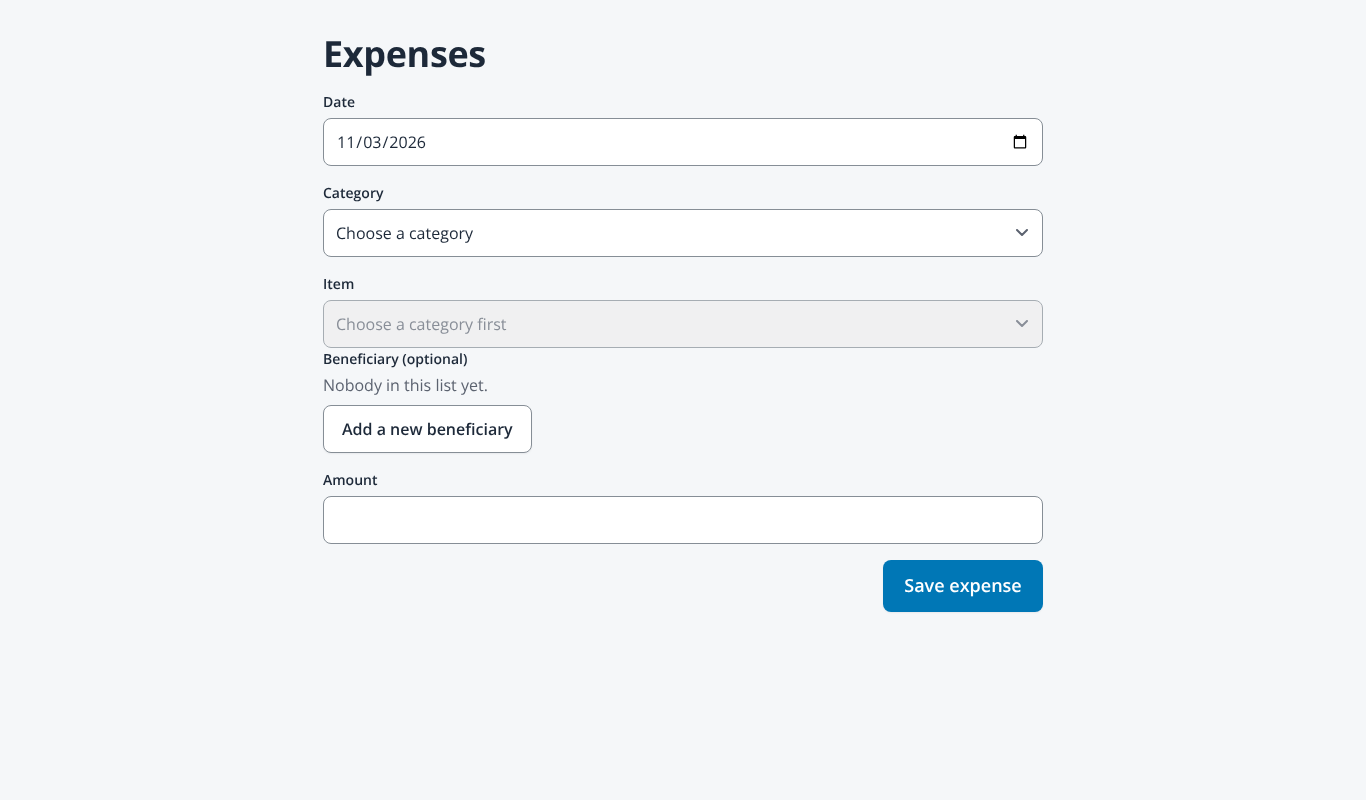
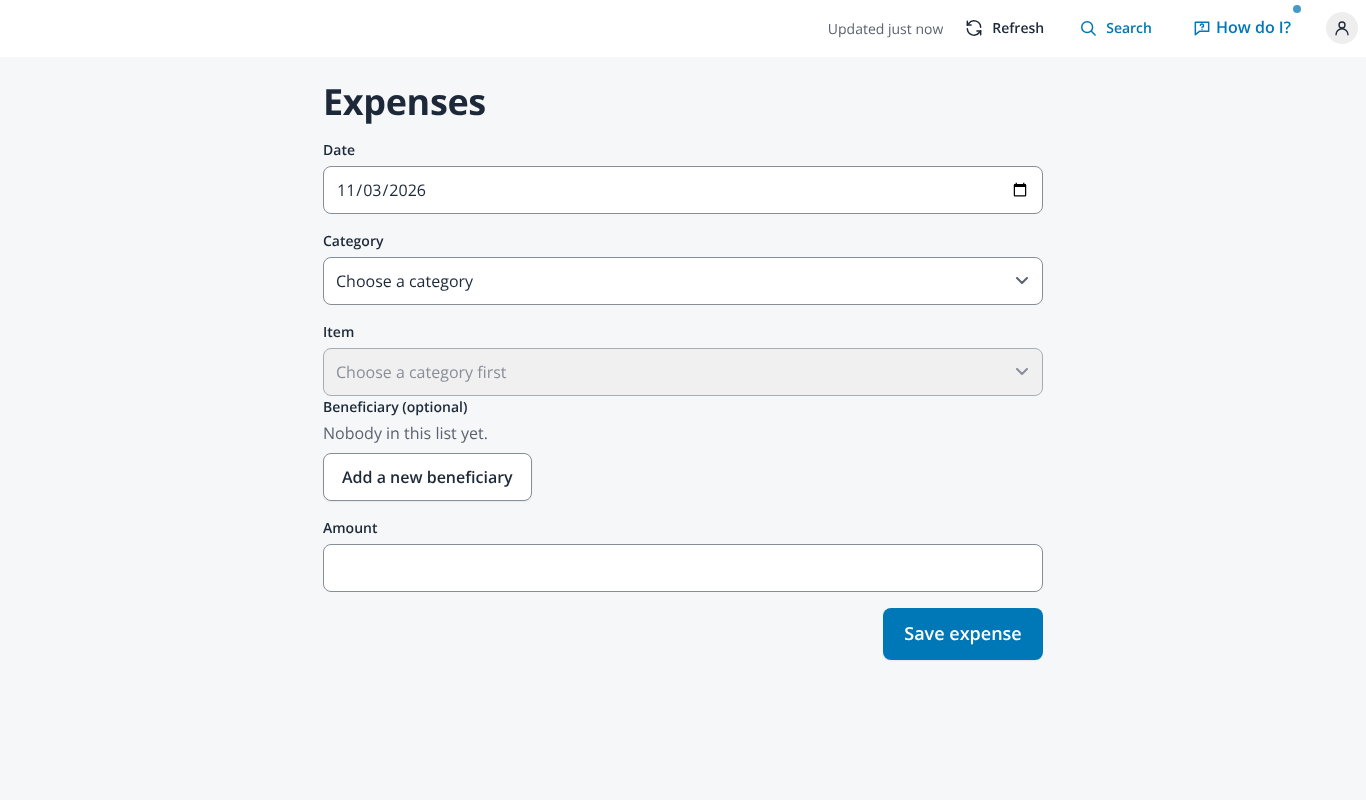
Lead decisions on the button sizes review (#825)
The staff top bar keeps 8px between its targets at every phone width:
below 412px it takes two lines in the order of the page, the menu and
the names over the icon buttons, so the names keep the #605 minimum.
Barcode labels puts its main action last, so it stands at the far
right on a laptop with the page order kept; on a phone the bar's
buttons are each full width, 8px apart. The layout fixture adds the
staff top bar and an open sheet; the suite measures them, checks that
a bar and a sheet show their buttons in page order on both sizes, and
the header suite checks 8px and page order between the bar's targets.
The before pictures are taken again with the same fixture.

diff --git a/frontend/layout/buttons.layout.test.ts b/frontend/layout/buttons.layout.test.ts
@@ -42,6 +42,7 @@ const SCREENS: { screen: string; ready: string; main?: string; secondary?: strin
   { screen: 'savings', ready: '.action-bar .rt-primary', main: '.action-bar .rt-primary' },
   { screen: 'setup', ready: 'main fieldset label', main: '.action-bar .rt-primary' },
   { screen: 'labels', ready: '.action-bar .rt-primary', main: '.action-bar .rt-primary' },
+  { screen: 'sheet', ready: '.sheet-actions button' },
 ];
 
 type Target = { name: string; x: number; y: number; width: number; height: number; group: number; pinned: boolean };
@@ -56,7 +57,8 @@ async function open(screen: string, ready: string, size: { width: number; height
 }
 
 /**
- * Every target of the screen a person can tap: its buttons, links drawn as buttons, rows, choice rows and the bottom tabs.
+ * Every target of the screen a person can tap: the staff top bar, the page's buttons, links drawn as buttons, rows and choice
+ * rows, an open sheet, and the bottom tabs (what a sheet hides from a screen reader is left out, as it cannot be tapped).
  * `group` numbers the one control a target is a part of (a Segmented, a Stepper, the rows of one list, the tabs), whose parts
  * touch by design, and is -1 for a target of its own. `pinned` marks a target in a stuck or fixed bar: it is measured where it is
  * drawn on the screen, the others where they are on the page.
@@ -68,7 +70,7 @@ async function targets(page: Page): Promise<Target[]> {
       for (let box: Element | null = el; box; box = box.parentElement) if (/^(sticky|fixed)$/.test(getComputedStyle(box).position)) return true;
       return false;
     };
-    return [...document.querySelectorAll<HTMLElement>('main :is(button, a.btn, a.list-row, [role="button"], label:has(> input[type="radio"], > input[type="checkbox"])), .tab-bar :is(a, button)')]
+    return [...document.querySelectorAll<HTMLElement>(':is(main, .staff-bar, .sheet-panel) :is(button, a.btn, a.list-row, [role="button"], label:has(> input[type="radio"], > input[type="checkbox"])), .tab-bar :is(a, button)')]
       .filter((el) => {
         const r = el.getBoundingClientRect();
         return r.width > 0 && r.height > 0 && !el.closest('details:not([open]) > :not(summary), [aria-hidden="true"], .visually-hidden');
@@ -115,6 +117,18 @@ describe.each(SCREENS)('the buttons of $screen (#825)', ({ screen, ready, main, 
       }),
     );
     expect(inset.filter((d) => d < GAP - 0.5)).toEqual([]);
+    // What is seen matches the Tab order: the buttons of an ActionBar or a sheet stand one under the other in the order of the
+    // page, each the full width of the bar.
+    const stacks = await page.locator('.action-bar, .sheet-actions').evaluateAll((all) => all.map((bar) => {
+      const cs = getComputedStyle(bar);
+      const inner = bar.getBoundingClientRect().width - parseFloat(cs.paddingLeft) - parseFloat(cs.paddingRight);
+      const boxes = [...bar.querySelectorAll(':scope > :is(button, a)')].map((c) => c.getBoundingClientRect());
+      return { inner, tops: boxes.map((b) => b.top), widths: boxes.map((b) => b.width) };
+    }));
+    for (const s of stacks) {
+      expect(s.tops).toEqual([...s.tops].sort((a, b) => a - b));
+      expect(s.widths.filter((w) => w < s.inner - 1)).toEqual([]);
+    }
     if (main) {
       const action = page.locator(main).first();
       const box = await action.boundingBox();
@@ -155,9 +169,7 @@ describe.each(SCREENS)('the buttons of $screen (#825)', ({ screen, ready, main, 
         const form = el.closest<HTMLElement>('form, .action-bar')?.parentElement?.closest<HTMLElement>('form') ?? el.closest<HTMLElement>('form') ?? (el.closest('main') as HTMLElement);
         const box = form.getBoundingClientRect();
         const r = el.getBoundingClientRect();
-        // In a bar of more than one button the main action leads the group, which stands at the right (checked below).
-        const last = !el.parentElement?.matches('.action-bar') || el.parentElement.querySelector(':scope > :is(button, a):last-of-type') === el;
-        return { width: r.width, height: r.height, right: last ? r.right : box.right - parseFloat(getComputedStyle(form).paddingRight), formRight: box.right - parseFloat(getComputedStyle(form).paddingRight), scroll: el.scrollWidth - el.clientWidth };
+        return { width: r.width, height: r.height, right: r.right, formRight: box.right - parseFloat(getComputedStyle(form).paddingRight), scroll: el.scrollWidth - el.clientWidth };
       });
       expect(placed.width).toBeGreaterThanOrEqual(MIN_WIDE - 0.5);
       expect(placed.width).toBeLessThanOrEqual(MAX + 0.5);
@@ -174,10 +186,10 @@ describe.each(SCREENS)('the buttons of $screen (#825)', ({ screen, ready, main, 
       expect(under.width).toBeLessThanOrEqual(MAX + 0.5);
       expect(Math.abs(under.formRight - under.right), 'the secondary action stands under the main one, at the right').toBeLessThanOrEqual(1);
     }
-    // What is seen matches the Tab order: the controls of a bar run left to right in the order of the page, side by side, the
-    // last at the bar's right.
-    const bars = await page.locator('.action-bar').evaluateAll((all) => all.map((bar) => ({
-      right: bar.getBoundingClientRect().right,
+    // What is seen matches the Tab order: the buttons of an ActionBar or a sheet run left to right in the order of the page, side
+    // by side, the last at the right of the bar.
+    const bars = await page.locator('.action-bar, .sheet-actions').evaluateAll((all) => all.map((bar) => ({
+      right: bar.getBoundingClientRect().right - parseFloat(getComputedStyle(bar).paddingRight),
       boxes: [...bar.querySelectorAll(':scope > :is(button, a)')].map((c) => ({ left: c.getBoundingClientRect().left, right: c.getBoundingClientRect().right })),
     })));
     for (const bar of bars) {

diff --git a/frontend/layout/buttons.tsx b/frontend/layout/buttons.tsx
@@ -14,14 +14,17 @@ import { SavingsForm } from '../src/areas/staff/retail/savings';
 import { ShopSetupPage } from '../src/areas/staff/retail/shop-setup';
 import { StockTable } from '../src/areas/staff/retail/stock';
 import { Gate } from '../src/areas/staff/retail/ui';
+import { StaffBar } from '../src/areas/staff/route';
 import { MoneyPage } from '../src/areas/staff/tab-pages';
+import { Sheet } from '../src/app/ui/Sheet';
+import { TourProvider } from '../src/tour/host';
 import { StaffTabBar } from '../src/areas/staff/tabs';
 import '../src/app/theme.css';
 import '../src/app/ui/index.css';
 import { layoutRouter } from './router';
 
 // The page buttons.layout.test.ts lays out in a real browser (issue #825): one daily screen of an owner, chosen by ?screen= (sell,
-// stock, buy, money, expenses, savings, setup, and labels for a bar of two buttons), inside the staff layout with the bottom tabs, under the app's own stylesheets, so
+// stock, buy, money, expenses, savings, setup, labels for a bar of two buttons, sheet for an open Sheet), under the staff top bar, the staff layout with the bottom tabs, under the app's own stylesheets, so
 // the test can measure every button on a phone and on a laptop. The lists are in the query cache, so nothing is fetched. Every
 // name and figure is invented.
 
@@ -57,8 +60,17 @@ const SCREENS: Record<string, { path: string; body: ReactNode }> = {
   expenses: { path: '/staff/retail/expenses', body: <Gate screen="expenses" title="Expenses"><ExpenseForm branchId={branch} /></Gate> },
   savings: { path: '/staff/retail/savings', body: <Gate screen="savings" title="Savings"><SavingsForm branchId={branch} /></Gate> },
   setup: { path: '/staff/retail/catalogue/set-up', body: <ShopSetupPage /> },
-  // Not a daily screen: the one ActionBar with two buttons, Make the labels and Print.
+  // Not a daily screen: the one ActionBar with two buttons, Print and Make the labels.
   labels: { path: '/staff/retail/catalogue/labels', body: <LabelsPage /> },
+  // A confirmation in the kit's Sheet, its primary button first as Sheet asks.
+  sheet: {
+    path: '/staff/retail/stock',
+    body: (
+      <Sheet open onClose={() => undefined} title="Remove this item?" actions={<><button type="button" className="btn-danger">Remove</button><button type="button">Keep it</button></>}>
+        <p>Test LED bulb 9W screw leaves this sale.</p>
+      </Sheet>
+    ),
+  },
 };
 const shown = SCREENS[screen] ?? (SCREENS.sell as { path: string; body: ReactNode });
 
@@ -66,12 +78,17 @@ createRoot(document.getElementById('root') as HTMLElement).render(
   <RouterContextProvider router={layoutRouter(shown.path)}>
     <QueryClientProvider client={client}>
       <StaffContext.Provider value={{ me, branch }}>
-        <div className="app-shell"><div className="app-content"><div className="nav-layout">
+        <TourProvider me={me} saveProgress={false}>
+        <div className="app-shell">
+          <StaffBar me={me} branch={branch} onBranch={() => undefined} onSignOut={() => undefined} />
+          <div className="app-content"><div className="nav-layout">
           <div className="nav-layout-main">
             <main data-screen={screen}>{shown.body}</main>
           </div>
           <StaffTabBar me={me} />
-        </div></div></div>
+          </div></div>
+        </div>
+        </TourProvider>
       </StaffContext.Provider>
     </QueryClientProvider>
   </RouterContextProvider>,

diff --git a/frontend/layout/header.layout.test.ts b/frontend/layout/header.layout.test.ts
@@ -137,17 +137,20 @@ describe.each([360, 390, 412])('the top bar at %ipx wide', (width) => {
         expect(c.box.x + c.box.width, `${c.cls} ends on screen`).toBeLessThanOrEqual(width + 0.5);
         for (const other of shown.slice(i + 1)) expect(overlap(c.box, other.box), `${c.cls} over ${other.cls}`).toBe(false);
       }
-      // Issue #825: from 412px two targets of the bar stand at least 8px apart. Below 412px they touch, so the names keep the
-      // minimum of #605 above (navigation.css).
+      // Issue #825: every two targets of the bar stand at least 8px apart, across and down (below 412px it takes two lines).
       const targets = await page.locator('.staff-bar-top :is(button, a.btn)').evaluateAll((els) =>
-        els.map((el) => ({ name: el.className, r: el.getBoundingClientRect() })).filter((t) => t.r.width > 0).map((t) => ({ name: t.name, x: t.r.x, right: t.r.right })),
+        els.map((el) => ({ name: el.className, r: el.getBoundingClientRect() })).filter((t) => t.r.width > 0).map((t) => ({ name: t.name, x: t.r.x, y: t.r.y, right: t.r.right, bottom: t.r.bottom })),
       );
-      targets.sort((a, b) => a.x - b.x);
-      for (const [i, t] of targets.slice(1).entries()) {
-        const before = targets[i] as { name: string; right: number };
-        if (width >= 412) expect(t.x - before.right, `${before.name} to ${t.name}`).toBeGreaterThanOrEqual(7.5);
-        else expect(t.x - before.right, `${before.name} over ${t.name}`).toBeGreaterThanOrEqual(-0.5);
+      expect(targets.length).toBeGreaterThanOrEqual(5);
+      for (const [i, a] of targets.entries()) {
+        for (const b of targets.slice(i + 1)) {
+          const gap = Math.max(b.x - a.right, a.x - b.right, b.y - a.bottom, a.y - b.bottom);
+          expect(gap, `${a.name} to ${b.name}`).toBeGreaterThanOrEqual(7.5);
+        }
       }
+      // What is seen matches the Tab order: line by line, left to right, in the order of the page.
+      const seen = [...targets].sort((a, b) => (Math.abs(a.y - b.y) > 4 ? a.y - b.y : a.x - b.x));
+      expect(seen.map((t) => t.name)).toEqual(targets.map((t) => t.name));
       for (const target of ['.menu-button', '.sync-button', '.find-open', '.refresh-button', '.ask-open', '.top-menu-button']) {
         const box = (await page.locator(`.staff-bar-top ${target}`).first().boundingBox()) as Box;
         expect(box.width, `${target} width`).toBeGreaterThanOrEqual(48);

diff --git a/frontend/src/areas/staff/retail/labels.tsx b/frontend/src/areas/staff/retail/labels.tsx
@@ -80,13 +80,14 @@ export function LabelsPage() {
         <input type="checkbox" style={{ width: 'auto', minHeight: 24, marginRight: 8 }} checked={safe} onChange={(e) => setSafe(e.target.checked)} />
         My printer cannot print to the edge: keep 4 mm clear inside each label
       </label>
+      {/* The main action last, so on a laptop it stands at the right of the bar with the page order kept (#825). */}
       <ActionBar>
-        <BusyButton type="button" className="rt-primary" data-tour="labels-make" busy={make.isPending} notReady={rows.length === 0} onClick={() => make.mutate()}>
-          Make the labels
-        </BusyButton>
         <button type="button" data-tour="labels-print" disabled={sheet.length === 0} onClick={() => window.print()}>
           Print
         </button>
+        <BusyButton type="button" className="rt-primary" data-tour="labels-make" busy={make.isPending} notReady={rows.length === 0} onClick={() => make.mutate()}>
+          Make the labels
+        </BusyButton>
       </ActionBar>
       {sheet.length > 0 && (
         <div className={safe ? 'label-sheet label-safe' : 'label-sheet'} data-testid="label-sheet" aria-label="Label sheet">

diff --git a/frontend/src/app/ui/navigation.css b/frontend/src/app/ui/navigation.css
@@ -31,8 +31,7 @@
 }
 
 /* Below 430px the bar's controls sit closer, so the branch name keeps its room (issue #605); each is still a 48px target, Ask
-   and the sync indicator exactly 48px wide. From 412px two targets stand --tap-gap apart (issue #825); below 412px they
-   touch (issue #631), because 8px gaps there would cut the business and branch names under the minimum of #605. */
+   and the sync indicator exactly 48px wide, and two targets stand --tap-gap apart (issue #825). */
 @media (max-width: 429px) {
   .staff-bar-top {
     gap: var(--tap-gap);
@@ -44,9 +43,16 @@
   }
 }
 
+/* Below 412px six targets 8px apart leave the names too little room (issue #825), so the bar takes two lines in the order of the
+   page: the menu and the names on the first, the sync, Refresh, Search, Ask and account buttons at the right of the second. */
 @media (max-width: 411px) {
   .staff-bar-top {
-    gap: 0;
+    flex-wrap: wrap;
+    justify-content: flex-end;
+  }
+
+  .staff-bar-top > .top-title {
+    flex-basis: calc(100% - var(--tap) - var(--tap-gap));
   }
 }
 

diff --git a/frontend/src/app/ui/kit.css b/frontend/src/app/ui/kit.css
@@ -715,6 +715,17 @@ button.list-row:focus-visible {
     margin-top: 0;
   }
 
+  /* A bar of more than one button (Barcode labels, #825): each full width, one under the other, --tap-gap apart, the main one
+     last and so nearest the thumb. */
+  .action-bar > :is(button, .btn) {
+    display: flex;
+    width: 100%;
+  }
+
+  .action-bar > * + :is(button, .btn) {
+    margin-top: var(--tap-gap);
+  }
+
   /* Over the bottom tabs (issue #539): the bar stops on top of them, and they take the home indicator inset. */
   .has-tab-bar .action-bar {
     bottom: var(--tab-bar-offset);

diff --git a/docs/ui/design-system.md b/docs/ui/design-system.md
@@ -76,7 +76,7 @@ The platform host and a tenant without a colour show the Rincol blue.
 
 | Component | Markup | Notes |
 |---|---|---|
-| Button sizes (#825) | Tokens `--tap`, `--tap-gap`, `--button-min-wide`, `--button-max` in `theme.css` | Every button is a 48 by 48px target whatever its size class. Phone (up to 600px): targets 8px apart (the staff top bar from 412px; below that its targets touch so the names keep the minimum of #605), a list outside a card ends 8px above what follows, the main action full width in the stuck `ActionBar`. Laptop (from 1024px): `.rt-primary`, `.btn-block` and the buttons of `.form-stack`, `.form-actions` and `.stack` are as wide as their label, at most 320px; a main action (`.btn-primary`, `.btn-brand`, `.btn-danger`, `.rt-primary`) at least 160px and at the right of its form, any other block button at its start; the `ActionBar` and the sheet's dialog keep their buttons together at the right in the order of the page, never reversed. A new class named as a tap target (`.btn-*`, `.chip`, `.pill`, `*-btn`, `*-button`, `*-chip`, `*-pill`, `*-clear`, `*-close`, `*-toggle`) is listed in the design guard once checked against these sizes, and no rule may give a listed one a size under `--tap` |
+| Button sizes (#825) | Tokens `--tap`, `--tap-gap`, `--button-min-wide`, `--button-max` in `theme.css` | Every button is a 48 by 48px target whatever its size class. Phone (up to 600px): targets 8px apart, the staff top bar included (below 412px it takes two lines in page order, the menu and the names over the icon buttons, so the names keep the minimum of #605), a list outside a card ends 8px above what follows, the main action full width in the stuck `ActionBar`. Laptop (from 1024px): `.rt-primary`, `.btn-block` and the buttons of `.form-stack`, `.form-actions` and `.stack` are as wide as their label, at most 320px; a main action (`.btn-primary`, `.btn-brand`, `.btn-danger`, `.rt-primary`) at least 160px and at the right of its form, any other block button at its start; the `ActionBar` and the sheet's dialog keep their buttons together at the right in the order of the page, never reversed. A new class named as a tap target (`.btn-*`, `.chip`, `.pill`, `*-btn`, `*-button`, `*-chip`, `*-pill`, `*-clear`, `*-close`, `*-toggle`) is listed in the design guard once checked against these sizes, and no rule may give a listed one a size under `--tap` |
 | Secondary button | `<button>` | The default; 48 by 48px at least (`--tap`). Pressed: it sinks to 98% and dims to 80%, by transform and opacity only (#682). Disabled (`disabled` or `aria-disabled="true"`): flat grey with muted text |
 | Primary button | `.btn-primary` (retail: `.rt-primary`; #87: `.btn-brand`) | One per view, the main action, at the bottom of a form |
 | Danger, ghost | `.btn-danger`, `.btn-ghost` | Reject or destroy; quiet actions such as Remove and Sign out |
@@ -118,7 +118,7 @@ The platform host and a tenant without a colour show the Rincol blue.
 | Empty choice (#619) | `<EmptyChoice id label text ask add />` (`app/ui/EmptyChoice.tsx`, `.empty-choice`) | A list a form needs is empty: the field's label, one muted line ("No units yet.") and one way to fill it, left aligned like a field: an inline add by name that chooses the new row (`AddByName`), or a link to the screen that adds one, which comes back (`?back=`, `useComeBack`). Without the permission, who to ask ("Ask the owner to add a unit first."). The design guard fails a select of a run-time list without it or an `empty:` reason |
 | No access (#526) | `<NoAccess what? />` (`app/ui/EmptyState.tsx`) | A page or part the session may not open: "You do not have access to this page. The owner or an administrator of the business can give it to you in Staff users." and a Go to Home button. Every no-access line uses it |
 | Key figure (#526) | `<KeyFigure label value tour><KeyFigureRow label value /></KeyFigure>` (`app/ui/KeyFigure.tsx`, `.key-figure`) | The one key amount of a screen: the label small and muted above, the amount (already through `money()`) at `--text-display` in tabular figures, the parts behind it as plain rows. On Home's Takings today, Daily profit, Credit control, Savings and Stock value |
-| Action bar (#526) | `<ActionBar>` around the primary button (`app/ui/ActionBar.tsx`, `.action-bar`) | The sale's bar made shared: on a phone stuck full width to the bottom over the bottom tabs, its measured height in `--bottom-bar`; from 720px in the form, and from 1024px a row at the right of the form in the order of the page, the primary first, so what is seen matches the Tab order (#825); Buy stock's Clear this purchase sits under the bar, styled as the secondary action under the primary. On Sale, Buy stock (#825), Banking, Expenses, Savings, Cash withdrawals, Usage and damage, Move stock, Import items and Barcode labels. A `BusyButton` given `notReady` (its form's fields are not yet right) stays enabled in its fill with `data-not-ready`, and a press or Enter goes to the first missing field (or says to check the fields) instead of sending; another submit button of the form still works. `disabled` keeps its plain meaning for a block that is not about the fields (another request running, a server not set up, a person who may only look) |
+| Action bar (#526) | `<ActionBar>` around the primary button (`app/ui/ActionBar.tsx`, `.action-bar`) | The sale's bar made shared: on a phone stuck full width to the bottom over the bottom tabs, its measured height in `--bottom-bar`; from 720px in the form, and from 1024px a row at the right of the form in the order of the page, so what is seen matches the Tab order, the primary last in the markup where it must stand at the far right (Barcode labels: Print, then Make the labels; on a phone each full width, one under the other) (#825); Buy stock's Clear this purchase sits under the bar, styled as the secondary action under the primary. On Sale, Buy stock (#825), Banking, Expenses, Savings, Cash withdrawals, Usage and damage, Move stock, Import items and Barcode labels. A `BusyButton` given `notReady` (its form's fields are not yet right) stays enabled in its fill with `data-not-ready`, and a press or Enter goes to the first missing field (or says to check the fields) instead of sending; another submit button of the form still works. `disabled` keeps its plain meaning for a block that is not about the fields (another request running, a server not set up, a person who may only look) |
 | Period picker (#526) | `<PeriodPicker from to onChange label maxDays tour />`, `showDate`, `showRange` (`app/ui/PeriodPicker.tsx`, `.period-picker`) | Every date range: one Segmented of Today, This week, This month and Custom, the days in force under it in words ("17 Oct to 24 Oct 2026"), Custom in the kit's Sheet with Show these days. A screen's own default window shows as Custom. `openStart` lets a list start with every day (All sales), with Show every day in the sheet. `showDate` is the one date formatter ("23 Oct 2026") |
 | HelpTip (#707) | `<HelpTip tip="onCredit" />` (`app/ui/HelpTip.tsx`, `.help-tip`; the words in `app/help-tips.ts`) | A small question mark after a label that is not obvious. It opens a short plain explanation on a tap or on keyboard focus (never hover only), and closes on a second tap, a tap anywhere else, Escape or focus moving away. The button has a 48px tap area of its own (no negative margin over the control beside it) and is named "More about" the words on screen. The text is a live region always in the page at the end of the body, empty and visually hidden while closed, so it is announced as it appears and never joins the name of a heading, legend or column; it sits under the button and follows it as the page or a table scrolls. Beside a heading, wrap both in `.help-tip-heading`; in a `<th>`, give the header an `aria-label` of its words. Each text is one or two short sentences with no dashes; `app/ui/help-tips-guard.dom.test.tsx` renders every tip on its label |
 | Hint (#526) | `<Hint tour>text</Hint>` (`app/ui/Hint.tsx`, `.hint-line`) | A help text on one line, cut with an ellipsis, and an info button that opens the rest when it does not fit; the whole text stays in the page for a screen reader. A warning or a consequence (cannot be undone, shown once, never goes back into stock) takes `full` and is always drawn whole |

diff --git a/docs/ui-rules.md b/docs/ui-rules.md
@@ -51,8 +51,10 @@ back to what opened it.
     screen's main action is full width in the stuck `ActionBar`. On a laptop (from 1024px) a button is as wide as its label,
     never wider than `--button-max` (320px), the main action at least `--button-min-wide` (160px) and at the right of its form,
     any other block button at its start, still 48px tall for a touch laptop (issue #825). The ActionBar and a sheet's buttons
-    stand together at the right in the order of the page, so what is seen matches the Tab order. The staff top bar keeps 8px
-    between its targets from 412px; below 412px they touch, so the business and branch names keep the minimum of #605.
+    stand together at the right in the order of the page, never reversed, so what is seen matches the Tab order; where the main
+    action must stand at the far right it comes last in the markup. The staff top bar keeps 8px between its targets at every
+    width; below 412px it takes two lines in the order of the page (the menu and the names, then the icon buttons at the
+    right), so the business and branch names keep the minimum of #605.
     `layout/buttons.layout.test.ts` measures the daily screens at 412 by 900 and 1366 by 800, and the design guard lists every
     class named as a tap target (`.btn-*`, `.chip`, `.pill`, `*-btn`, `*-button`, `*-chip`, `*-pill`, `*-clear`, `*-close`,
     `*-toggle`).
